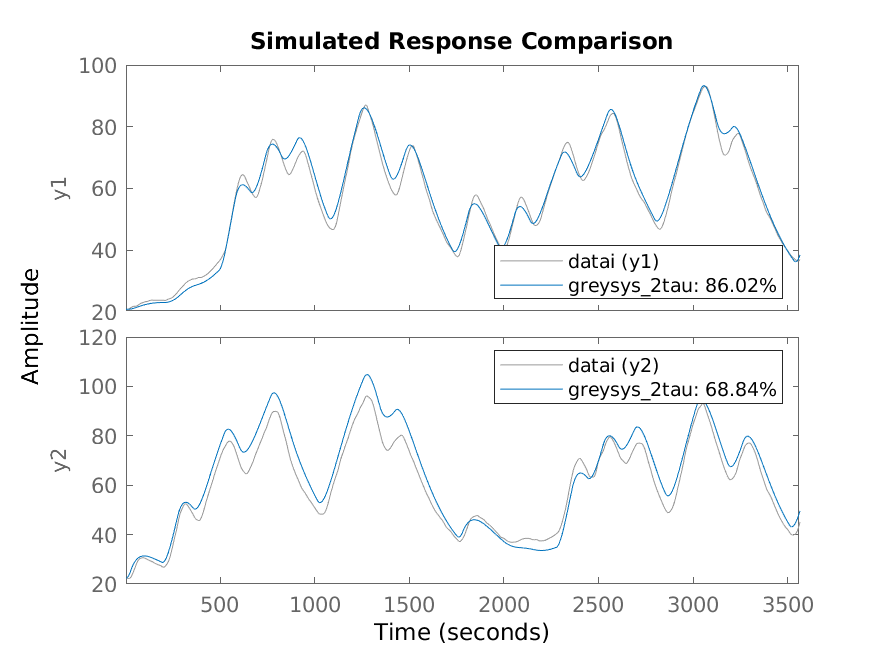
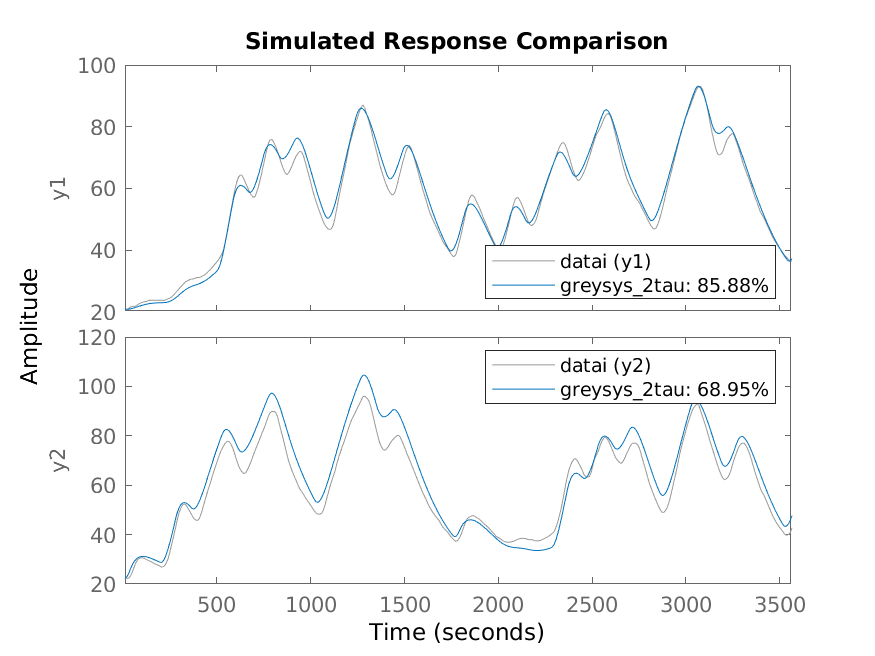
resampled dataset. working on new models

diff --git a/tclab/MATLAB/identification/SystemIdentification.m b/tclab/MATLAB/identification/SystemIdentification.m
@@ -1,7 +1,11 @@
 clear all; close all; clc;
 
+focus = 'simulation';
+% focus = 'prediction';
+
 % Get identification data
-[data, datap, datai, Tnom, T0, outputOffset] = get_id_data;
+% [data, datap, datai, datar, datari, Tnom, T0, outputOffset] = get_id_data;
+[~, ~, ~, datap, datai, Tnom, T0, outputOffset] = get_id_data;
 
 % Get optimized parameters as initial guesses
 if isunix
@@ -42,7 +46,8 @@ init_sys.Structure.Parameters(5).Maximum = 60;
 
 % Estimate Greybox model with 1 tau
 
-opt = greyestOptions('SearchMethod','fmincon','InitialState','zero');
+opt = greyestOptions('SearchMethod','fmincon','InitialState','zero',...
+    'Focus',focus);
 greysys_1tau = greyest(datap,init_sys,opt);
 
 % clear old variables
@@ -58,7 +63,6 @@ else
 end
 
 % Initialize greybox model with 2 tau
-
 
 odefun = 'linearTclabModel_2tau';
 fcn_type =  'c';
@@ -89,23 +93,24 @@ init_sys.Structure.Parameters(6).Maximum = 60;
 
 % Estimate Greybox model with 2 tau
 
-opt = greyestOptions('SearchMethod','fmincon','InitialState','zero');
+opt = greyestOptions('SearchMethod','fmincon','InitialState','zero',...
+    'Focus',focus);
 greysys_2tau = greyest(datap,init_sys,opt);
 
 %% Blackbox model estimation
 
 % Identify system and print report
 opt = ssestOptions('InitializeMethod','n4sid','InitialState','zero',...
-    'EnforceStability',true);
+    'EnforceStability',true,'Focus',focus);
 blacksys = ssest(datap,4,opt);
 blacksys.Report
 
-[A,B,C,D,K] = idssdata(blacksys)
+[A,B,C,D,K] = idssdata(blacksys);
 
 %% Plot validation results and save images
 
 % Get validation data
-[data, datap, datai, Tnom, T0, outputOffset] = get_val_data;
+[~, ~, ~, datap, datai, Tnom, T0, outputOffset] = get_val_data;
 
 opt = compareOptions('InitialCondition','z','OutputOffset',outputOffset');
 

diff --git a/tclab/MATLAB/identification/get_id_data.m b/tclab/MATLAB/identification/get_id_data.m
@@ -1,11 +1,11 @@
-function [data, datap, datai, Tnom, T0, outputOffset] = get_id_data
+function [data, datap, datai, datar, datari, Tnom, T0, outputOffset] = get_id_data
 
 % load test data depending on OS
 
 if isunix
-    load ../data/luca/prbs_test_60min.mat
+    load ../data/luca/prbs_test_60min.mat;
 elseif ispc
-    load ../data/halithan/prbs_test_60_min.mat
+    load ../data/halithan/prbs_test_60_min.mat;
 else
     disp('Platform not supported')
 end
@@ -41,6 +41,10 @@ datap.OutputData = idfilt(datap.OutputData,filter);
 datai = datap;
 datai.OutputData = datai.OutputData + outputOffset;
 
-% ADD RESAMPLED DATASET
+% RESAMPLED DATASET
+%datar  = datap
+datar  = resample(datap,1,15);
+datari = datar;
+datari.OutputData = datari.OutputData + outputOffset;
 
 end

diff --git a/tclab/MATLAB/identification/get_val_data.m b/tclab/MATLAB/identification/get_val_data.m
@@ -1,4 +1,4 @@
-function [data, datap, datai, Tnom, T0, outputOffset] = get_val_data
+function [data, datap, datai, datar, datari, Tnom, T0, outputOffset] = get_val_data
 
 % load test data depending on OS
 
@@ -41,6 +41,9 @@ datap.OutputData = idfilt(datap.OutputData,filter);
 datai = datap;
 datai.OutputData = datai.OutputData + outputOffset;
 
-% ADD RESAMPLED DATASET
-
+% RESAMPLED DATASET
+%datar  = datap;
+datar  = resample(datap,1,15);
+datari = datar;
+datari.OutputData = datari.OutputData + outputOffset;
 end

diff --git a/tclab/MATLAB/data/luca/visualize_data.m b/tclab/MATLAB/data/luca/visualize_data.m
@@ -1,11 +1,12 @@
 close all; clear all; clc
 
 
-datafiles = dir('../inputs/prbs*.mat');
+%datafiles = dir('../inputs/prbs*.mat');
+datafiles = dir('both*.mat');
 
 nf = length(datafiles);
 
-for ii = 1:2
+for ii = 1:1
     
     load([sprintf('%s',datafiles(ii).folder), filesep, sprintf('%s',datafiles(ii).name)]);
     
